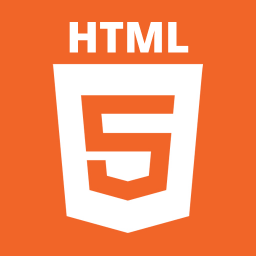
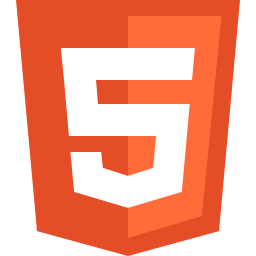
Finished project section

diff --git a/src/config.js b/src/config.js
@@ -6,13 +6,23 @@ export const header = {
     shapeStrokeWidth: 3, // px
     shapesCount: 20,
 };
-export const switchTimer = 1000;
+export const switchTimer = 3500;
 export const projects = [
+    {
+        title: 'Portfolio',
+        repoName: 'alexcambose.github.io',
+        description: 'Animation library that mimics CSS keyframes when scrolling',
+        images: ['https://i.imgur.com/GjcS3Mo.png'],
+        technologies: {
+            frontend: ['html', 'sass', 'javascript', 'webpack', 'handlebars'],
+            backend: []
+        }
+    },
     {
         title: 'motus',
         repoName: 'motus',
-        description: 'descriereeeee lorem   aa',
-        images: ['https://i.imgur.com/e2ZZ8Wa.png', 'https://i.imgur.com/E2WfSVv.png'],
+        description: 'Animation library that mimics CSS keyframes when scrolling',
+        images: ['https://i.imgur.com/urs3fwK.png', 'https://i.imgur.com/GjcS3Mo.png'],
         technologies: {
             frontend: ['typescript', 'parcel'],
             backend: []
@@ -21,23 +31,44 @@ export const projects = [
     {
         title: 'Rapoarte Drumuri',
         repoName: 'Rapoarte-Drumuri',
-        description: 'descriereeeee lorem   aa',
-        images: ['https://i.imgur.com/E2WfSVv.png'],
+        description: '\n' +
+        'Rapoarte Drumuri (Roads Reports) is meant to help drivers who are tired of unexpected events on Romanian roads. With this app anyone can report a closed, broken, in repair or dangerous road so that other drivers are aware of the problem. ',
+        images: ['https://i.imgur.com/enOqOI3.png', 'https://i.imgur.com/gvgRCPR.png'],
         technologies: {
             frontend: ['javascript', 'react', 'react-native'],
-            backend: ['nodejs', 'mongodb', 'express'],
+            backend: ['nodejs', 'jwt', 'mongodb'],
         }
     },
     {
         title: 'Studeo',
         repoName: 'studeo',
-        description: 'descriereeeee lorem   aa',
-        images: ['https://i.imgur.com/e2ZZ8Wa.png'],
+        description: 'An e-learning platform to help students learn faster and easier for exams.',
+        images: [
+            'https://i.imgur.com/nP1zd4q.jpg',
+            'https://i.imgur.com/xUEtPNj.png',
+            'https://i.imgur.com/8sER8ot.png',
+            'https://i.imgur.com/ZZpPEVV.png',
+            'https://i.imgur.com/8pTQq5n.png',
+            'https://i.imgur.com/hXhG0co.png',
+            'https://i.imgur.com/i9TDvuP.jpg',
+            'https://i.imgur.com/wbQ5SFL.png',
+            'https://i.imgur.com/WB1CWb0.png',
+            'https://i.imgur.com/d1wcZf3.png',
+            'https://i.imgur.com/YQ7yUrF.png',
+            'https://i.imgur.com/yZbpPdj.png',
+            'https://i.imgur.com/mIXAOfN.png',
+            'https://i.imgur.com/U6QbWeo.png',
+            'https://i.imgur.com/9Kief4u.jpg',
+            'https://i.imgur.com/DzgiMgK.jpg',
+            'https://i.imgur.com/rfQF843.png',
+            'https://i.imgur.com/PsGAMYf.png',
+            'https://i.imgur.com/1XzCLvZ.png',
+        ],
         technologies: {
-            frontend: ['javascript', 'vuejs', 'sass','bulma'],
+            frontend: ['html', 'sass', 'javascript', 'vuejs','bulma'],
             backend: ['php', 'laravel','mysql'],
         },
-        contributors: ['ovidiumihaibelciug']
+        contributors: [['Belciug Ovidiu-Mihai', 'ovidiumihaibelciug']],
     },
     // {
     //     name: '40-lines-of-sass'

diff --git a/src/scripts/projects.js b/src/scripts/projects.js
@@ -1,6 +1,5 @@
-import { projects as portfolioProjects } from '../config';
 import Motus from 'motus';
-import {beautifyGithubRepoName} from "./utils";
+import {inViewport} from "./utils";
 Motus = new Motus();
 export default () => {
     const projectsSection = document.querySelector('section.projects');
@@ -16,7 +15,7 @@ export default () => {
             projectsSection.classList.add('inverse');
         }
         for (let i = 0; i < projects.length; i++) {
-            if (projects[i].getBoundingClientRect().y < 300) projects[i].classList.add('active');
+            if (projects[i].getBoundingClientRect().y < window.innerHeight/2) projects[i].classList.add('active');
             else projects[i].classList.remove('active');
         }
     };
@@ -30,35 +29,33 @@ export default () => {
         }
     );
     Motus.addAnimation(myAnimation);
+    const myAnimation2 = new Motus.Animation(
+        new Motus.Point(projectsSection.offsetTop - window.innerHeight/.8),
+        new Motus.Point(projectsSection.offsetTop + projectsSection.offsetHeight),
+        document.querySelector('#number'),
+        {
+            0: {marginLeft: -1000},
+            30: {marginLeft: 0},
+            70: {marginLeft: 0},
+            100: {marginLeft: -1000},
+
+        }
+    );
+    Motus.addAnimation(myAnimation2);
 
     //PROJECT IMAGE MOUSE PERSPECTIVE
     const perspectivize = element => {
         document.addEventListener('mousemove', e => {
-            const rotateX = e.clientX - window.innerWidth / 2;
-            const rotateY = e.clientY - window.innerHeight / 2;
-            element.style.transform = `rotateX(${(-rotateY * 0.02).toFixed(1)}deg) rotateY(${(rotateX * 0.02).toFixed(1)}deg)`;
-            // projectImages[i].style.boxShadow = `0px 33px 25px -25px #777`;
+            if(inViewport(element)) {
+                const rotateX = e.clientX - window.innerWidth / 2;
+                const rotateY = e.clientY - window.innerHeight / 2;
+                element.style.transform = `rotateX(${(-rotateY * 0.02).toFixed(1)}deg) rotateY(${(rotateX * 0.02).toFixed(1)}deg)`;
+            }
         });
     };
-    // for(let i=0;i<projectImages.length;i++) perspectivize(projectImages[i]);
+    for(let i=0;i<projectImages.length;i++) perspectivize(projectImages[i]);
 
     // const document.querySelector('.projects-repeating');
     window.addEventListener('scroll', scrollHandler);
     scrollHandler();
-
-
-    //PROJECTS FETCH AND RENDER ON PAGE
-    const getProjectInfo = async (repoName) => {
-        const apiUrl = `https://api.github.com/repos/alexcambose/${repoName}`;
-        let info = await fetch(apiUrl);
-        info = await info.json();
-        return info;
-    };
-
-    // for(let project of portfolioProjects) {
-    //     const { name, image, technologies } = project;
-    //     getProjectInfo(project.name).then(info => {
-    //         addProject(beautifyGithubRepoName(name), image, name, info.description, technologies, info.stargazers);
-    //     });
-    // }
 }

diff --git a/src/app.js b/src/app.js
@@ -3,6 +3,7 @@ import header from './scripts/header';
 import about from './scripts/about';
 import projects from './scripts/projects';
 import {switchTimer} from "./config";
+import {inViewport, randomFromInterval} from "./scripts/utils";
 
 export default () => {
     const sections = document.getElementsByTagName('section');
@@ -54,19 +55,21 @@ export default () => {
     for(let i = 0; i<switches.length;i++) {
         const children = switches[i].children;
         if(children.length > 1) {
+            children[0].classList.add('active');
             setInterval(() => {
-                const activeElementIndex = [...children].findIndex(e => e.classList && e.classList.value.indexOf('active') !== -1);
-                if(activeElementIndex === -1) children[0].classList.add('active');
-                else if(activeElementIndex === children.length-1) {
-                    children[0].classList.add('active');
-                    children[children.length-1].classList.remove('active');
-                } else {
-                    children[activeElementIndex].classList.remove('active');
-                    children[activeElementIndex+1].classList.add('active');
+                if(inViewport(children[0])) {
+                    const activeElementIndex = [...children].findIndex(e => e.classList && e.classList.value.indexOf('active') !== -1);
+                    if(activeElementIndex === -1) children[0].classList.add('active');
+                    else if(activeElementIndex === children.length-1) {
+                        children[0].classList.add('active');
+                        children[children.length-1].classList.remove('active');
+                    } else {
+                        children[activeElementIndex].classList.remove('active');
+                        children[activeElementIndex+1].classList.add('active');
+                    }
                 }
-            }, switchTimer);
+            }, switchTimer + randomFromInterval(0, 500));
         }
-
     }
     scrollHandler();
     header();

diff --git a/src/styles/sections/projects.scss b/src/styles/sections/projects.scss
@@ -1,19 +1,40 @@
 section.projects {
+
   z-index: 11;
   height: auto;
   min-height: 100vh;
   transition: all .3s;
-  //background-color: #efefef;
   background-color: #0e0e0e;
   color: #d9d9d9;
   justify-content: flex-start;
-  padding-top: 100px;
+  padding: 100px 0;
+  #number {
+    display: none;
+    position: fixed;
+    top: 50%;
+    left: 20px;
+  }
   .projects-container {
-    top: 0;
-    bottom: 0;
+    width: 1300px;
     .project {
       margin-top: 25vh;
       margin-bottom: 25vh;
+      .project-info {
+        margin: 0 20px 0 0;
+      }
+      .project-title {
+        font-weight: 200;
+      }
+      .project-description, .contributors {
+        font-weight: 200;
+        letter-spacing: 1px;
+      }
+      &:nth-child(odd) {
+        flex-direction: row-reverse;
+        .project-info {
+          margin: 0 0 0 20px;
+        }
+      }
       .project-info {
         transform: translateX(-100px);
         transition: all .3s;
@@ -39,13 +60,12 @@ section.projects {
           border: $projectsImageBorderWidth solid black;
           position: relative;
           box-shadow: 0 28px 84px -55px #777;
-          height: 400px;
-          width: 700px;
-          transition: border .3s;
+          height: 470px;
+          width: 800px;
           overflow: hidden;
 
           .project-image-item {
-            transition: all .5s;
+            transition: .5s;
             position: absolute;
             top: 0;
             bottom: 0;
@@ -53,10 +73,8 @@ section.projects {
             left: 0;
             background-size: cover !important;
             background-position: center !important;
-            transform: scale(.9);
             opacity: 0;
             &.active {
-              transform: scale(1);
               opacity: 1
             }
           }

diff --git a/src/styles/components/technologies.scss b/src/styles/components/technologies.scss
@@ -1,14 +1,20 @@
 ul.technologies {
   list-style-type: none;
   padding: 0;
-  display: flex;
+  text-align: center;
   li{
-    display: flex;
-    flex: 1;
-    height: 80px;
-    width: 80px;
+    transition: .3s;
+    transform: scale(1);
+    filter: contrast(100%) brightness(100%);
+    height: 50px;
+    width: 50px;
+    margin: 10px;
     @each $technology in $technologies {
       &.#{$technology} {
+        &:hover {
+          filter: contrast(120%) brightness(120%);
+          transform: scale(1.1);
+        }
         background: url("../images/technologies/#{$technology}.png");
         background-size: contain;
         background-position: center;

diff --git a/src/styles/_variables.scss b/src/styles/_variables.scss
@@ -28,4 +28,4 @@ $navmenuItemHoverUnderline2: #0094ff;
 $projectsImageBorderWidth: 1px;
 $projectsImageBorderHoverColor: gray;
 
-$technologies: ('html','javascript','laravel','mongodb','mysql','nodejs','parcel','php','react','react-native', 'react-router','redux','sass','typescript','vuejs','webpack')
+$technologies: ('html','javascript','laravel','mongodb','mysql','nodejs','parcel','php','react','react-native', 'react-router','redux','sass','typescript','vuejs','webpack', 'jwt', 'handlebars', 'bulma')

diff --git a/src/scripts/utils.js b/src/scripts/utils.js
@@ -1,3 +1,2 @@
 export const randomFromInterval = (min, max) => Math.floor(Math.random() * (max - min + 1) + min);
-export const percentFrom = (max, current) => current/max * 100;
-export const sliceFromPercent = (percent, value) => percent/100 * value;
+export const inViewport = element => Math.abs(element.getBoundingClientRect().y) < element.offsetHeight;

diff --git a/src/styles/index.scss b/src/styles/index.scss
@@ -17,6 +17,8 @@
 
 * {
   box-sizing: border-box;
+  -webkit-font-smoothing: antialiased;
+  -moz-osx-font-smoothing: grayscale;
 }
 
 body, html {

diff --git a/src/styles/components/button.scss b/src/styles/components/button.scss
@@ -35,6 +35,7 @@
       }
     }
     svg {
+      margin-bottom: -6px;
       height: 32px;
       width: 32px;
       * {
